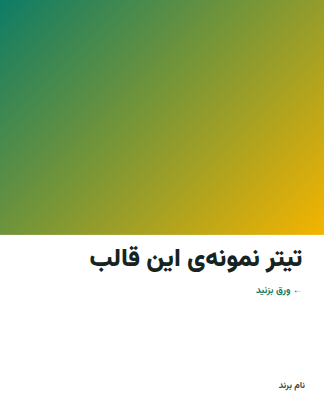
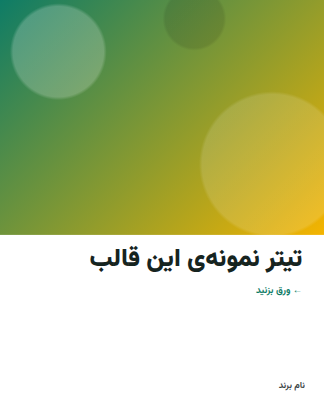
Fix bad-looking offline posts: free images, safe names, core templates, newer Chromium
- Images: free Pollinations provider by default (no key), watermark strip cropped, one retry;
  nicer brand background when no image is available
- Offline copy never uses empty project/product names (headline started with '؛')
- Templates needing real facts (event, testimonial) are no longer picked automatically; without a
  model posts use the core template of their type
- Playwright 1.55 (Chromium 140): the older Chromium drew ZWNJ words like «میکنید» incorrectly
- Server-side validation: project name and industry are required
- CTA slots allow 32 characters (common CTAs were being cut)

Claude-Session: https://claude.ai/code/session_01URKQTfnHAyX3ANwXC19LCs

Changed region(s): [[0.6173, 0.2074, 1.0, 0.5926], [0.0309, 0.0, 0.3395, 0.2667]]

diff --git a/backend/app/templates/base.html b/backend/app/templates/base.html
@@ -28,7 +28,7 @@
            font-size: 30px; opacity: .85; }
   .page { position: absolute; bottom: 44px; inset-inline-end: 64px; font-size: 30px; opacity: .6; }
   .img { background-size: cover; background-position: center;
-         background-image: {% if image %}url('{{ image }}'){% else %}linear-gradient(135deg, var(--primary), var(--secondary)){% endif %}; }
+         background-image: {% if image %}url('{{ image }}'){% else %}radial-gradient(circle at 18% 22%, rgba(255,255,255,.22) 0 14%, transparent 15%), radial-gradient(circle at 84% 70%, rgba(255,255,255,.14) 0 22%, transparent 23%), radial-gradient(circle at 60% 8%, rgba(0,0,0,.10) 0 10%, transparent 11%), linear-gradient(135deg, var(--primary), var(--secondary)){% endif %}; }
   {% block style %}{% endblock %}
 </style>
 </head>

diff --git a/backend/app/template_registry.py b/backend/app/template_registry.py
@@ -20,26 +20,26 @@ TEMPLATES: dict[str, dict] = {
                  "name_fa": "عدد بزرگ", "desc_fa": "یک آمار یا عدد چشمگیر با توضیح", "types": ["educational", "news"]},
     "news_flash": {"slots": {"kicker": 16, "headline": 70, "body": 160}, "image": True,
                    "name_fa": "خبر فوری", "desc_fa": "عکس بالا و خبر پایین", "types": ["news"]},
-    "event_announce": {"slots": {"kicker": 16, "headline": 60, "date_text": 30, "place": 40, "cta": 24}, "image": True,
-                       "name_fa": "اعلام رویداد", "desc_fa": "کارگاه، افتتاحیه یا جشنواره با تاریخ و مکان", "types": ["news", "promo"]},
-    "promo_hero": {"slots": {"headline": 55, "body": 110, "cta": 24}, "image": True,
+    "event_announce": {"slots": {"kicker": 16, "headline": 60, "date_text": 30, "place": 40, "cta": 32}, "image": True,
+                       "auto": False, "name_fa": "اعلام رویداد", "desc_fa": "کارگاه، افتتاحیه یا جشنواره با تاریخ و مکان", "types": ["news", "promo"]},
+    "promo_hero": {"slots": {"headline": 55, "body": 110, "cta": 32}, "image": True,
                    "name_fa": "معرفی محصول تمامصفحه", "desc_fa": "عکس بزرگ محصول با متن روی آن", "types": ["promo"]},
     "before_after": {"slots": {"headline": 50, "before": 90, "after": 90}, "image": False,
                      "name_fa": "قبل و بعد", "desc_fa": "مقایسهی وضعیت قبل و بعد از محصول", "types": ["promo", "educational"]},
     "testimonial": {"slots": {"quote": 180, "author": 30, "role": 40}, "image": False,
-                    "name_fa": "نظر مشتری", "desc_fa": "نقلقول یک مشتری با امتیاز", "types": ["promo", "sales"]},
+                    "auto": False, "name_fa": "نظر مشتری", "desc_fa": "نقلقول یک مشتری با امتیاز", "types": ["promo", "sales"]},
     "quote_card": {"slots": {"quote": 150, "author": 30}, "image": False,
                    "name_fa": "جملهی الهامبخش", "desc_fa": "یک جملهی کوتاه و ماندگار", "types": ["promo", "educational"]},
     "question_poll": {"slots": {"question": 80, "option_a": 30, "option_b": 30}, "image": False,
                       "name_fa": "سؤال و نظرسنجی", "desc_fa": "یک سؤال دوگزینهای برای کامنت گرفتن", "types": ["promo", "educational"]},
-    "sales_offer": {"slots": {"badge": 12, "headline": 55, "body": 110, "cta": 24}, "image": False,
+    "sales_offer": {"slots": {"badge": 12, "headline": 55, "body": 110, "cta": 32}, "image": False,
                     "name_fa": "پیشنهاد فروش", "desc_fa": "تخفیف یا پیشنهاد ویژه با دکمهی خرید", "types": ["sales"]},
     # --- carousel family ---
     "car_cover": {"slots": {"headline": 60}, "image": True, "carousel": True,
                   "name_fa": "کاور کاروسل", "desc_fa": "اسلاید اول با قلاب", "types": []},
     "car_body": {"slots": {"headline": 50, "body": 230}, "image": False, "carousel": True,
                  "name_fa": "اسلاید داخلی کاروسل", "desc_fa": "یک ایده در هر اسلاید", "types": []},
-    "car_cta": {"slots": {"headline": 70, "cta": 26}, "image": False, "carousel": True,
+    "car_cta": {"slots": {"headline": 70, "cta": 32}, "image": False, "carousel": True,
                 "name_fa": "اسلاید پایانی کاروسل", "desc_fa": "دعوت به اقدام", "types": []},
 }
 
@@ -52,8 +52,9 @@ SINGLE_TEMPLATE = {
 }
 
 
-def templates_for(post_type: str) -> list[str]:
-    return [code for code, spec in TEMPLATES.items() if post_type in spec["types"]]
+def templates_for(post_type: str, auto_only: bool = False) -> list[str]:
+    """Templates for a post type. auto_only skips ones that need real facts (event date, customer quote)."""
+    return [c for c, s in TEMPLATES.items() if post_type in s["types"] and (s.get("auto", True) or not auto_only)]
 
 
 ZWNJ = ""

diff --git a/backend/app/images.py b/backend/app/images.py
@@ -1,31 +1,60 @@
-"""Background/hero image generation. Text is never drawn by the image model."""
+"""Background/hero image generation. Text is never drawn by the image model.
+
+Providers: pollinations (free, no key; default), cloudflare (Workers AI Flux), none (brand gradient).
+Any failure returns None and the template falls back to its brand-colour background."""
 
 import base64
+import io
+import logging
+import random
 from pathlib import Path
+from urllib.parse import quote
 
 import httpx
 
 from .config import settings
 
+log = logging.getLogger("images")
 NEGATIVE = "no text, no letters, no words, no logos, no watermark, no signage"
 
 
-def generate_image(prompt: str, out: Path) -> Path | None:
-    """Returns the saved path, or None when images are disabled (template falls back to a gradient)."""
-    if settings.image_provider != "cloudflare" or not prompt:
-        return None
-    url = (
-        f"https://api.cloudflare.com/client/v4/accounts/{settings.cf_account_id}"
-        f"/ai/run/{settings.cf_image_model}"
-    )
-    resp = httpx.post(
-        url,
-        headers={"Authorization": f"Bearer {settings.cf_api_token}"},
-        json={"prompt": f"{prompt}. {NEGATIVE}", "steps": 8},
-        timeout=120,
-    )
+def _pollinations(prompt: str, out: Path) -> Path | None:
+    from PIL import Image
+
+    url = f"https://image.pollinations.ai/prompt/{quote(prompt + '. ' + NEGATIVE)}"
+    resp = httpx.get(url, params={"width": 1080, "height": 1200, "nologo": "true", "seed": random.randint(1, 10**6)},
+                     timeout=120, follow_redirects=True)
     resp.raise_for_status()
-    image_b64 = resp.json()["result"]["image"]
+    img = Image.open(io.BytesIO(resp.content)).convert("RGB")
+    w, h = img.size
+    img = img.crop((0, 0, w, int(h * 0.9)))  # the free tier stamps a small mark in the bottom corner
     out.parent.mkdir(parents=True, exist_ok=True)
-    out.write_bytes(base64.b64decode(image_b64))
+    img.save(out, "PNG")
     return out
+
+
+def _cloudflare(prompt: str, out: Path) -> Path | None:
+    url = f"https://api.cloudflare.com/client/v4/accounts/{settings.cf_account_id}/ai/run/{settings.cf_image_model}"
+    resp = httpx.post(url, headers={"Authorization": f"Bearer {settings.cf_api_token}"},
+                      json={"prompt": f"{prompt}. {NEGATIVE}", "steps": 8}, timeout=120)
+    resp.raise_for_status()
+    out.parent.mkdir(parents=True, exist_ok=True)
+    out.write_bytes(base64.b64decode(resp.json()["result"]["image"]))
+    return out
+
+
+def generate_image(prompt: str, out: Path) -> Path | None:
+    """Returns the saved path, or None (template then uses its brand background)."""
+    if not prompt or settings.image_provider == "none":
+        return None
+    try:
+        if settings.image_provider == "cloudflare":
+            return _cloudflare(prompt, out)
+        try:
+            return _pollinations(prompt, out)
+        except Exception as e:  # noqa: BLE001 — free tier is flaky: one retry with a short prompt
+            log.info("image retry after: %s", e)
+            return _pollinations(prompt.split(",")[0] + ", photograph", out)
+    except Exception as e:  # noqa: BLE001 — images are optional
+        log.warning("image generation failed: %s", e)
+        return None

diff --git a/backend/app/offline.py b/backend/app/offline.py
@@ -43,14 +43,31 @@ def _fill(tpl, ctx):
     return tpl.format(**ctx)
 
 
+INDUSTRY_EN = {
+    "کافه و رستوران": "cozy cafe and restaurant", "فروشگاه آنلاین": "online shop products", "زیبایی و آرایشی": "beauty and cosmetics",
+    "مد و پوشاک": "fashion clothing", "آموزش و دوره": "education and learning", "سلامت و پزشکی": "health and wellness clinic",
+    "املاک": "modern real estate interior", "فناوری و نرمافزار": "technology and software", "هوش مصنوعی": "artificial intelligence technology",
+    "گردشگری": "travel and tourism", "ورزش و تناسب اندام": "fitness and sport", "خدمات مالی": "finance and business",
+    "هنر و صنایع دستی": "handmade art and crafts", "خودرو": "modern car", "خدمات حقوقی": "law office", "مواد غذایی": "fresh food",
+}
+
+
+def image_prompt(b: Brand) -> str:
+    subject = INDUSTRY_EN.get(b.industry, "modern small business")
+    return (f"{subject}, professional editorial photograph, soft natural light, shallow depth of field, "
+            "clean composition with empty space at the bottom, vibrant but natural colors")
+
+
 def context(b: Brand, topic_hint: str, research: dict) -> dict:
-    products = b.products or [{"name": b.name, "desc": b.description}]
+    name = (b.name or "").strip() or b.industry or "ما"
+    products = [p for p in (b.products or []) if (p.get("name") or "").strip()] or [
+        {"name": name, "desc": b.description}]
     p = random.choice(products)
     kws = (research or {}).get("keywords") or [b.industry]
     trends = (research or {}).get("trends") or []
     return {
-        "brand": b.name, "industry": b.industry, "product": p.get("name") or b.name,
-        "desc": p.get("desc") or b.description or b.industry, "cta": b.cta or "برای اطلاعات بیشتر دایرکت بدهید",
+        "brand": name, "industry": b.industry or name, "product": p["name"].strip(),
+        "desc": (p.get("desc") or b.description or f"کیفیت و خدمات {name} را از نزدیک تجربه کنید").strip(), "cta": b.cta or "برای اطلاعات بیشتر دایرکت بدهید",
         "keyword": kws[0], "topic": topic_hint or kws[0], "n": "۵",
         "trend": topic_hint or (trends[0]["title"] if trends else f"تازههای {b.industry}"),
     }
@@ -93,8 +110,8 @@ def carousel(b: Brand, n_body: int, topic_hint: str, research: dict) -> dict:
     return {
         "cover": {"headline": f"{ctx['topic']}: هر آنچه باید بدانید"},
         "body": body,
-        "cta": {"headline": f"برای {ctx['product']} با {b.name} در ارتباط باشید", "cta": ctx["cta"][:26]},
-        "image_prompt": "",
+        "cta": {"headline": f"برای {ctx['product']} با {ctx['brand']} در ارتباط باشید", "cta": ctx["cta"]},
+        "image_prompt": image_prompt(b),
     }
 
 

diff --git a/backend/app/pipeline.py b/backend/app/pipeline.py
@@ -37,7 +37,7 @@ def latest_research(db: Session, brand_id: str) -> Research | None:
 
 def pick_template(db: Session, brand_id: str, post_type: str) -> str:
     """Least-recently-used template for this post type, so daily posts don't all look the same."""
-    options = templates_for(post_type) or [SINGLE_TEMPLATE[post_type]]
+    options = templates_for(post_type, auto_only=True) or [SINGLE_TEMPLATE[post_type]]
     used = db.scalars(
         select(Post).where(Post.brand_id == brand_id, Post.post_type == post_type, Post.mode == "single")
         .order_by(Post.created_at.desc()).limit(len(options) * 2)
@@ -134,8 +134,13 @@ def run_post(db: Session, post: Post) -> None:
         code = opts.get("template") if opts.get("template") in TEMPLATES else pick_template(db, brand.id, post.post_type)
         data = ask(
             prompts.single_post_prompt(brand, post.post_type, post.topic_hint, recent, code, research),
-            lambda: {"slots": offline.single_slots(brand, post.post_type, code, post.topic_hint, report)},
+            lambda: {"slots": offline.single_slots(brand, post.post_type, code, post.topic_hint, report),
+                     "image_prompt": offline.image_prompt(brand)},
         )
+        if data.get("source") == "offline" and not opts.get("template") and code != SINGLE_TEMPLATE[post.post_type]:
+            # without a model, stick to the core template of the type (the others need specific facts)
+            code = SINGLE_TEMPLATE[post.post_type]
+            data["slots"] = offline.single_slots(brand, post.post_type, code, post.topic_hint, report)
         data["template"] = code
         data["slots"] = _fit(code, data.get("slots", {}), data, sys)
 

diff --git a/backend/tests/test_offline.py b/backend/tests/test_offline.py
@@ -68,3 +68,20 @@ def test_sensitive_news_is_not_a_trend():
         {"title": "رقبا ارزان کردند", "snippet": "", "url": "2"},
         {"title": "ابزار جدید هوش مصنوعی", "snippet": "", "url": "3"}]}
     assert [t["title"] for t in research.heuristic_report(b, "", data)["trends"]] == ["ابزار جدید هوش مصنوعی"]
+
+
+def test_offline_copy_never_starts_with_empty_names_and_skips_fact_templates():
+    from app import offline
+    from app.models import Brand
+    from app.pipeline import pick_template
+
+    b = Brand(name="فروشگاه هوش مصنوعی", industry="هوش مصنوعی", products=[{"name": "", "desc": ""}])
+    slots = offline.single_slots(b, "promo", "promo_hero", "", {})
+    assert slots["headline"].startswith("فروشگاه هوش مصنوعی")
+    assert "artificial intelligence" in offline.image_prompt(b)
+
+    class _DB:  # no previous posts
+        def scalars(self, *_a, **_k):
+            return []
+
+    assert pick_template(_DB(), "x", "promo") not in ("event_announce", "testimonial")

diff --git a/backend/app/config.py b/backend/app/config.py
@@ -21,8 +21,8 @@ class Settings(BaseSettings):
     llm_fallback_url: str = "https://text.pollinations.ai/openai"
     llm_fallback_model: str = "openai"
 
-    # Images: cloudflare (Workers AI, Flux schnell) | none (brand-colour gradient)
-    image_provider: str = "none"
+    # Images: pollinations (free, no key) | cloudflare (Workers AI, Flux schnell) | none (brand-colour background)
+    image_provider: str = "pollinations"
     cf_account_id: str = ""
     cf_api_token: str = ""
     cf_image_model: str = "@cf/black-forest-labs/flux-1-schnell"

diff --git a/backend/app/main.py b/backend/app/main.py
@@ -141,8 +141,8 @@ def update_me(body: MeIn, user: User = Depends(current_user), db: Session = Depe
 # ---------- projects (brands) ----------
 
 class BrandIn(BaseModel):
-    name: str
-    industry: str
+    name: str = Field(min_length=1, pattern=r"\S")
+    industry: str = Field(min_length=1, pattern=r"\S")
     language: str = Field("fa", pattern="^(fa|en)$")
     description: str = ""
     website: str = ""
